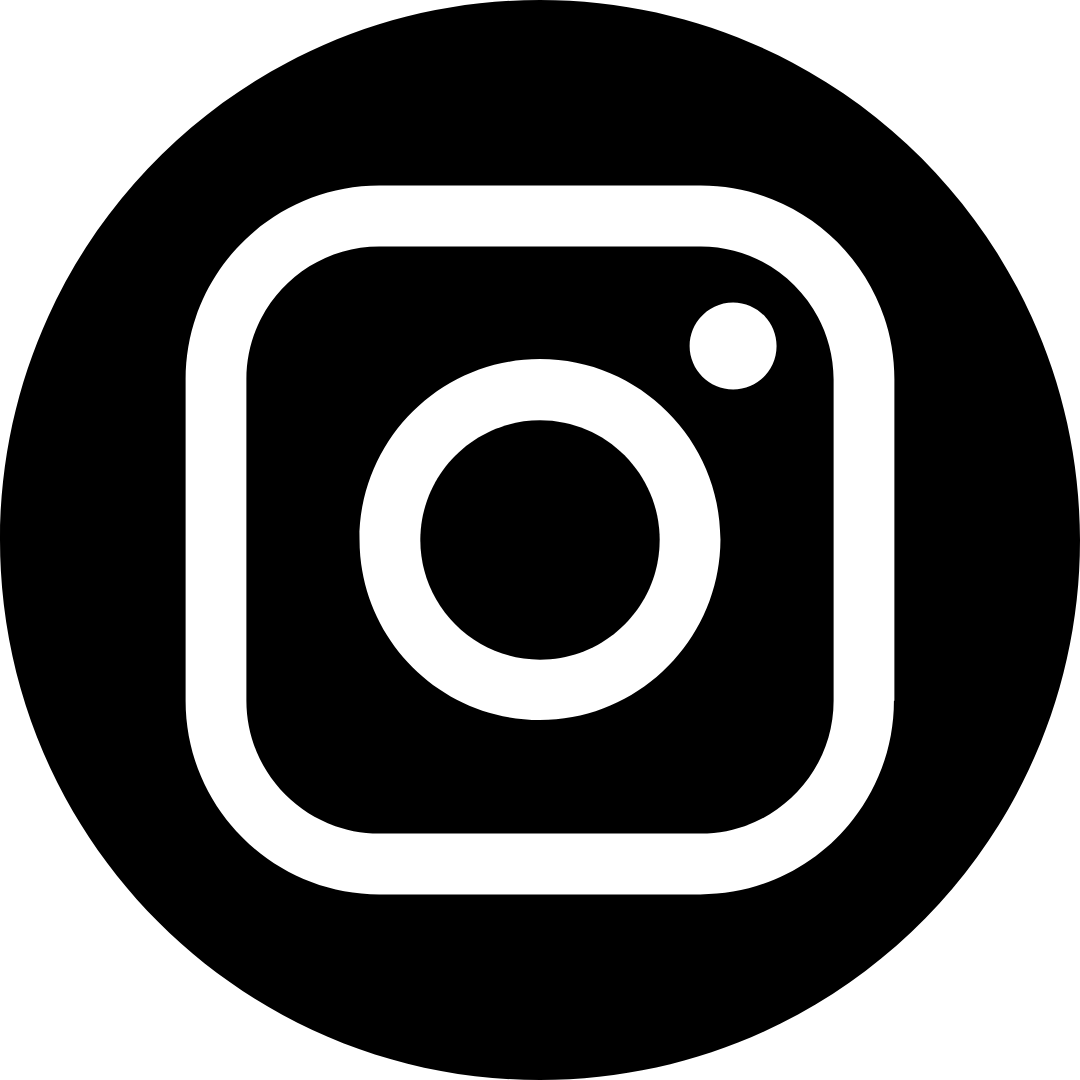
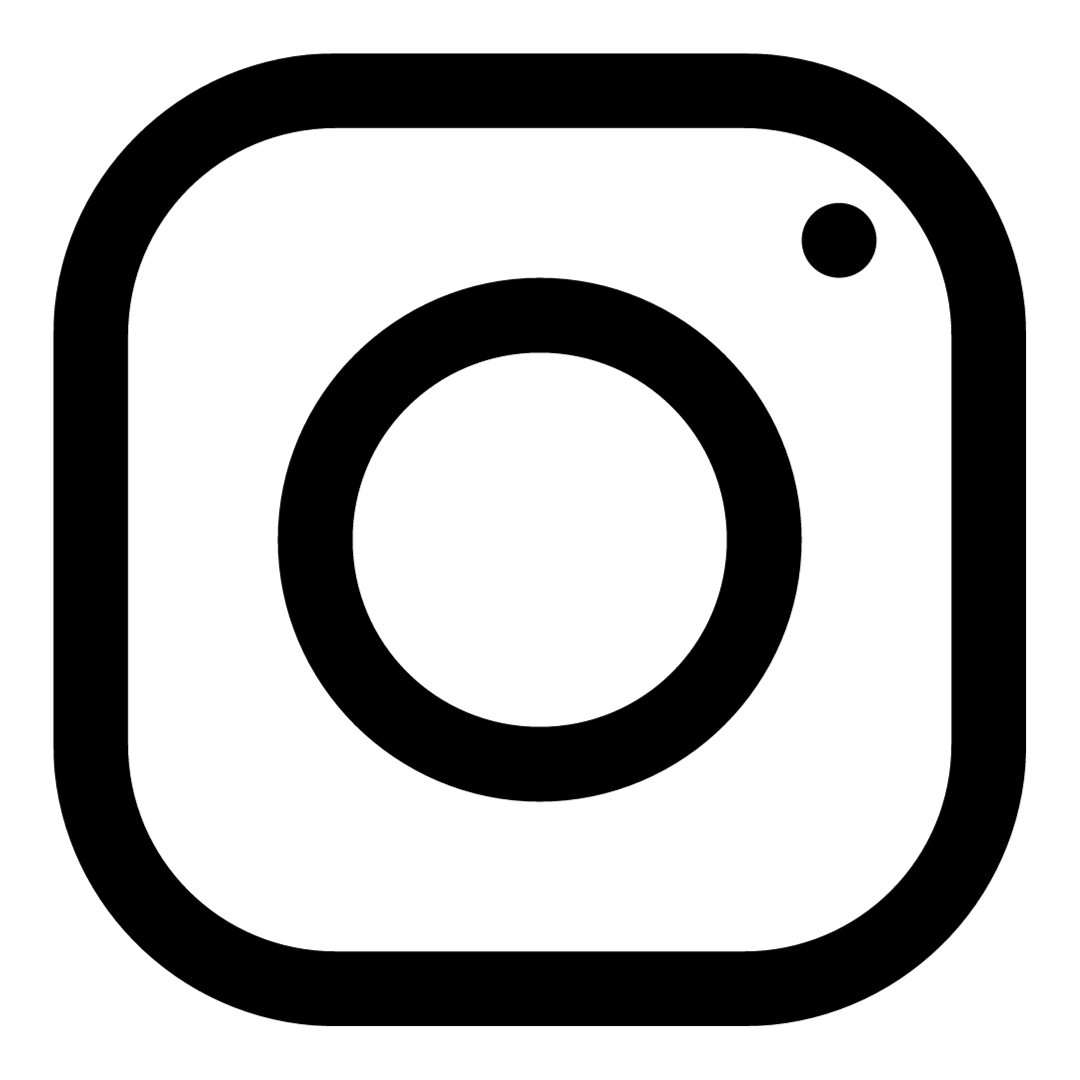
carrossel

diff --git a/css/main.css b/css/main.css
@@ -3,15 +3,15 @@
 
 *{
     padding: 0;
-    margin: 0;
-    box-sizing: border-box;
     font-family: 'Montserrat', sans-serif;
 }
 
 body {
+    
     width: 100%;
     height: 100%;
     margin: 0; /* Removendo margem padrão do body */
+    background-image: linear-gradient(90deg, rgb(46, 46, 46), rgb(63, 25, 25));
 }
 
 #logo {
@@ -22,7 +22,7 @@ body {
 
 #header{
     width: 100%;
-    height: 80px;
+    height: 70px;
 }
 
 .cabecalho {
@@ -36,11 +36,11 @@ body {
     text-align: center;
     background-color: white;
     margin: 0; /* Removendo margem padrão do ul */
-    height: 40px; /* Defina a altura desejada */
+    height: 30px; /* Defina a altura desejada */
     display: flex;
     justify-content: left; /* Centraliza horizontalmente os itens da lista */
     align-items: center; /* Centraliza verticalmente os itens da lista */
-    box-shadow: 0px 15px 15px grey;
+    box-shadow: 0px 15px 15px rgb(31, 31, 31);
 }
 
 .nav ul li {
@@ -67,10 +67,10 @@ body {
     
     content: " ";
     width: 0px;
-    height: 4px;
+    height:4px;
     background-image: linear-gradient(45deg, rgb(255, 255, 255),rgb(248, 91, 91),red);
     position: absolute;
-    top: 20px;
+    top: 15px;
     left: 0;
     transition: 0.5s;
     border-radius: 10px;
@@ -83,37 +83,157 @@ body {
 
 }
 
+.redes-sociais{
+    position: absolute;
+    top: 9.8%;
+    right: 2%;
+}
+
+.redes-sociais a {
+    margin-right: 5px; /* Espaçamento entre os ícones */
+    display: inline-block; /* Garante que os ícones fiquem na mesma linha */
+}
+
+.redes-sociais a img{
+
+    position: relative;
+    float: right;
+    display: inline;
+    margin: 5px;
+    padding: 0;
+    
+}
+
 .w {
     
-    position: relative;
-    width: 35px;
-    height: 35px;
-    margin-left: 625px;
-    margin-right: 5px;
+    width: 25px;
+    height: 25px;
+ 
 }
 
 .i{
     
-    position: relative;
-    width: 35px;
-    height: 35px;
-    margin: 5px;
+    width: 25px;
+    height: 25px;
+    
 }
 
 .y{
     
-    position: relative;
-    width: 35px;
-    height: 35px;
-    margin: 5px;
+    width: 25px;
+    height: 25px;
+    
 }
 
 .f{
     
-    position: relative;
-    width: 35px;
-    height: 35px;
-    margin: 5px;
+    width: 25px;
+    height: 25px;
+    
 }
 
+section.slider{
+    margin: 0;
+    width: 100%;
+    height: auto;
+    padding: 0 !important;
+    overflow: hidden;
+    margin-top: 30px;
+}
+
+.slide-content{
+    width: 400%; /* define o tamanho para caber as imagens, aumentar caso tenha mais imagens*/
+    height: auto;
+    display: flex;
+    
+}
+
+.slide-content input, .img-mobile{
+    display: none;
+}
+
+.slide-box{
+    width: 25%;
+    height: auto;
+    position: relative;
+    text-align: center;
+    transition: 1s;
+}
+
+.slide-box img{
+    width: 60%;
+}
+
+.nav-manual, .nav-auto{
+    position: absolute;
+    width: 100%;
+    margin-top: 21%;
+    display: flex;
+    justify-content: center;
+}
+
+.nav-manual .manual-btn, .nav-auto div{
+    border: 1px solid red;
+    padding: 10px;
+    border-radius: 50%;
+    cursor:pointer;
+    transition: 0.2s;
+    
+}
+
+.nav-manual .manual-btn:not(:last-child),.nav-auto div:not(:last-child){
+
+    margin-right: 10px;
+}
+
+.nav-manual .manual-btn:hover{
+    background-color: red;
+}
+
+#radio1:checked ~ .nav-auto .auto-btn1{
+
+    background-color: red;
+}
+
+#radio2:checked ~ .nav-auto .auto-btn2{
+
+    background-color: red;
+}
+
+#radio3:checked ~ .nav-auto .auto-btn3{
+
+    background-color: red;
+}
+
+#radio1:checked ~ .primeiro{
+
+    margin-left: 0%;
+
+}
+
+#radio2:checked ~ .primeiro{
+
+    margin-left: -25%;
+    
+}
+
+#radio3:checked ~ .primeiro{
+
+    margin-left: -50%;
+    
+}
+
+@media screen and (max-width: 900px) {
+    .img-desktop{
+        display: none;
+    }
+
+    .img-mobile{
+        display: block;
+    }
+
+    .nav-auto, .nav-manual{
+        margin-top: 60%;
+    }
+} /*importar coisas código para responsabilidade android*/
 

diff --git a/html/index.html b/html/index.html
@@ -2,6 +2,7 @@
 <html lang="pt-br">
 <head>
     <link rel="stylesheet" href="/css/main.css">
+    <script src="/js/slide.js" defer></script>
     <meta charset="UTF-8">
     <meta name="viewport" content="width=device-width, initial-scale=1.0">
     <title>AudyoKar</title>
@@ -21,13 +22,55 @@
                 <li><a href="insira o link aqui!!">CONTATOS</a></li>
                 <li><a href="insira o link aqui!!">PROJETOS</a></li>
                 <li><a href="insira o link aqui!!">TRABALHE CONOSCO</a></li>
-                <a href=""><img class="w" src="/assets/wpp.png" alt=""></a>
-                <a href=""><img class="y" src="/assets/yt.png" alt=""></a>
-                <a href=""><img class="f" src="/assets/face.png" alt=""></a>
-                <a href=""><img class="i" src="/assets/insta.png" alt=""></a>
+                <div class="redes-sociais">
+                    <a href=""><img class="w" src="/assets/wpp.png" alt=""></a>
+                    <a href=""><img class="y" src="/assets/yt.png" alt=""></a>
+                    <a href=""><img class="f" src="/assets/face.png" alt=""></a>
+                    <a href=""><img class="i" src="/assets/insta.png" alt=""></a>
+                </div>
             </ul>
         </nav>
 
     </header>
+
+    <SEction class="slider">
+
+        <div class="slide-content">
+
+            <input type="radio" name="btn-radio" id="radio1"> <!-- input servira de ponte entre o css e JS-->
+            <input type="radio" name="btn-radio" id="radio2">  
+            <input type="radio" name="btn-radio" id="radio3">
+
+            <div class="slide-box primeiro">
+                <img class="img-desktop" src="/DESKTOP/1.png" alt="slide1">
+                <img class="img-mobile" src="/MOBILE/1.png" alt="slide1">
+            </div>
+
+            <div class="slide-box">
+                <img class="img-desktop" src="/DESKTOP/2.png" alt="slide2">
+                <img class="img-mobile" src="/MOBILE/2.png" alt="slide2">
+            </div>
+
+            <div class="slide-box">
+                <img class="img-desktop" src="/DESKTOP/3.png" alt="slide3">
+                <img class="img-mobile" src="/MOBILE/3.png" alt="slide3">
+            </div>
+
+            <div class="nav-auto">
+                <div class="auto-btn1"></div>
+                <div class="auto-btn2"></div>
+                <div class="auto-btn3"></div>
+            </div>
+
+            <div class="nav-manual">
+                <label for="radio1" class="manual-btn"></label> <!--lable vai referencia os imputs como etiqueta-->
+                <label for="radio2" class="manual-btn"></label>
+                <label for="radio3" class="manual-btn"></label>
+            </div>
+
+        </div>
+
+    </SEction>
+
 </body>
 </html>

diff --git a/js/slide.js b/js/slide.js
@@ -1,0 +1,19 @@
+
+var radio = document.querySelector('.manual-btn')
+var cont = 1
+
+document.getElementById('radio1').checked = true
+
+setInterval(() => {
+
+    proximaImg()
+}, 5000)
+
+function proximaImg(){
+    cont++
+
+    if(cont > 3 )
+        cont = 1
+
+        document.getElementById('radio'+cont).checked = true
+}
